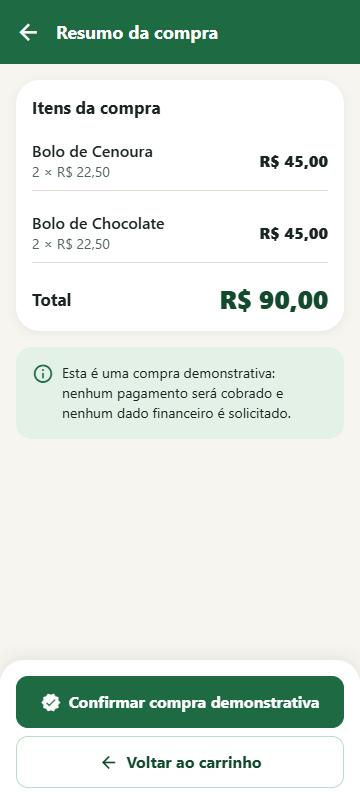
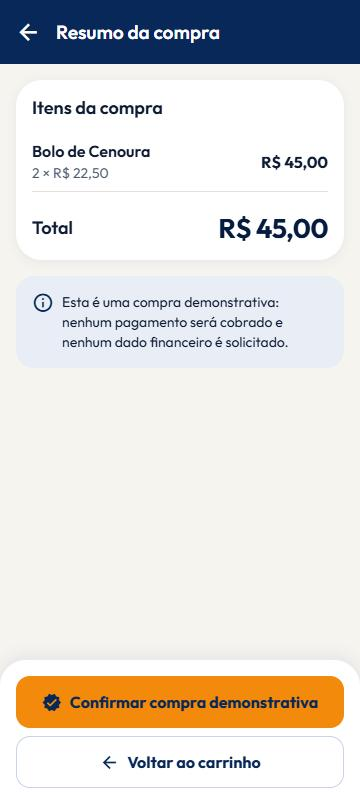
docs: capturas e roteiro 360x800 com a identidade da marca OP#607

diff --git a/README.md b/README.md
@@ -161,9 +161,17 @@ frontend/
 
 ## Sistema visual
 
-- **Identidade:** verde-floresta (`#1E6B43`) como cor principal, fundos naturais (creme `#F7F5EF`) e o laranja da marca (`#F28C1E`) como destaque. Textos com contraste AA; laranja nunca é usado com texto branco.
-- **Componentes:** todos os botões, cards, campos de quantidade, chips, estados (carregando, vazio, erro, sem conexão, sucesso), avisos e diálogos vêm de `src/components/ui`.
-- **Movimento:** resposta ao toque com escala 0,97 em 120 ms (transição CSS do Reanimated 4), entradas com ease-out, carrinho com entrada e saída de itens e contador animado, selo de sucesso na confirmação. Com "Reduzir movimento" ligado no sistema, escalas e deslocamentos são desligados.
+- **Identidade:** segue o manual em `assets/design/images` (`apresentacao-safra-final.png` e `apresentacao-monograma.png`). Azul Safra (`#072858`) como cor principal, Laranja Safra (`#F48A0B`) como destaque, branco e o fundo claro da apresentação (`#F6F4EF`). Tipografia Outfit (`@expo-google-fonts/outfit`). Textos com contraste AA; sobre o laranja o texto é sempre azul, nunca branco.
+- **Elementos da marca:** assinatura horizontal no cabeçalho, monograma "o S que anda" (o "S" sobre duas rodinhas), linhas de velocidade do símbolo, onda azul com contorno laranja e o traço laranja sob os títulos. Os arquivos derivados ficam em `assets/brand` (gerados a partir de `assets/design/images`, sem alterar as cores).
+- **Componentes:** todos os botões, cards, campos de quantidade, chips, estados (carregando, vazio, erro, sem conexão, sucesso), avisos e diálogos vêm de `src/components/ui`; os elementos animados da marca, de `src/components/brand`.
+- **Movimento:** a marca sempre anda para a frente, da esquerda para a direita, como o carrinho do símbolo.
+  - **Abertura:** continua a splash nativa. O ícone dá uma arrancada, as linhas de velocidade entram atrás dele e a assinatura sobe.
+  - **Início:** o monograma chega à faixa azul e as rodinhas assentam.
+  - **Carrinho do cabeçalho:** a cada produto adicionado, o ícone avança com as linhas de velocidade e o contador pulsa.
+  - **Confirmação:** o monograma chega ao selo e o check laranja aparece.
+  - **Toque:** resposta com escala de 0,97 em 120 ms.
+  - **Técnica:** animações CSS do Reanimated 4, só com `transform` e `opacity`, na thread de UI.
+  - **Reduzir movimento:** com a opção ligada no sistema, ficam só os fades, sem deslocamentos nem escalas.
 - **Toque e leitura:** áreas de toque de no mínimo 44 pt, rótulos de acessibilidade em todos os botões de ícone, controle de quantidade ajustável pelo leitor de tela e textos que acompanham o tamanho de fonte do sistema.
 
 ## Fluxo de compra

diff --git a/docs/roteiro-360x800/README.md b/docs/roteiro-360x800/README.md
@@ -12,10 +12,10 @@ Fluxo do E10: catálogo → categoria → detalhes → carrinho → resumo → c
 
 | # | Passo | Esperado | Resultado | Captura |
 |---|---|---|---|---|
-| 1 | Abrir o app | Destaque, 5 categorias em grade e catálogo em 2 colunas, vindos da API | OK; largura do documento = 360 (sem rolagem horizontal) | [01-home](01-home.jpg) |
+| 1 | Abrir o app | Abertura animada da marca, faixa azul com a onda, 5 categorias em grade e catálogo em 2 colunas, vindos da API | OK; largura do documento = 360 (sem rolagem horizontal) | [01-home](01-home.jpg) |
 | 2 | Tocar em "Padaria" e no filtro "Bolos" | Produtos da subcategoria (CT6) | OK; 5 produtos | [02-categoria-filtro](02-categoria-filtro.jpg) |
 | 3 | Abrir "Bolo de Cenoura" | Imagem, classificação, preço, descrição, quantidade e "Adicionar" fixo no rodapé | OK | [03-detalhes](03-detalhes.jpg) |
-| 4 | Adicionar e abrir um produto relacionado | Botão "Adicionado", contador do carrinho e aviso no topo sem cobrir ações | OK | [04-produto-adicionado](04-produto-adicionado.jpg) |
+| 4 | Tocar em "Adicionar" | Botão laranja "Adicionado", carrinho do cabeçalho anda com as linhas de velocidade, contador e aviso no topo sem cobrir ações | OK | [04-produto-adicionado](04-produto-adicionado.jpg) |
 | 5 | Abrir o carrinho | Itens, preço unitário, quantidade, subtotais e total calculados pela API | OK | [05-carrinho](05-carrinho.jpg) |
 | 6 | Aumentar quantidade e tocar em remover | Total atualizado pela API; diálogo de confirmação | OK | [06-remover-item](06-remover-item.jpg) |
 | 7 | "Revisar compra" | Mesmos itens e total do carrinho; aviso de compra demonstrativa | OK | [07-resumo](07-resumo.jpg) |
